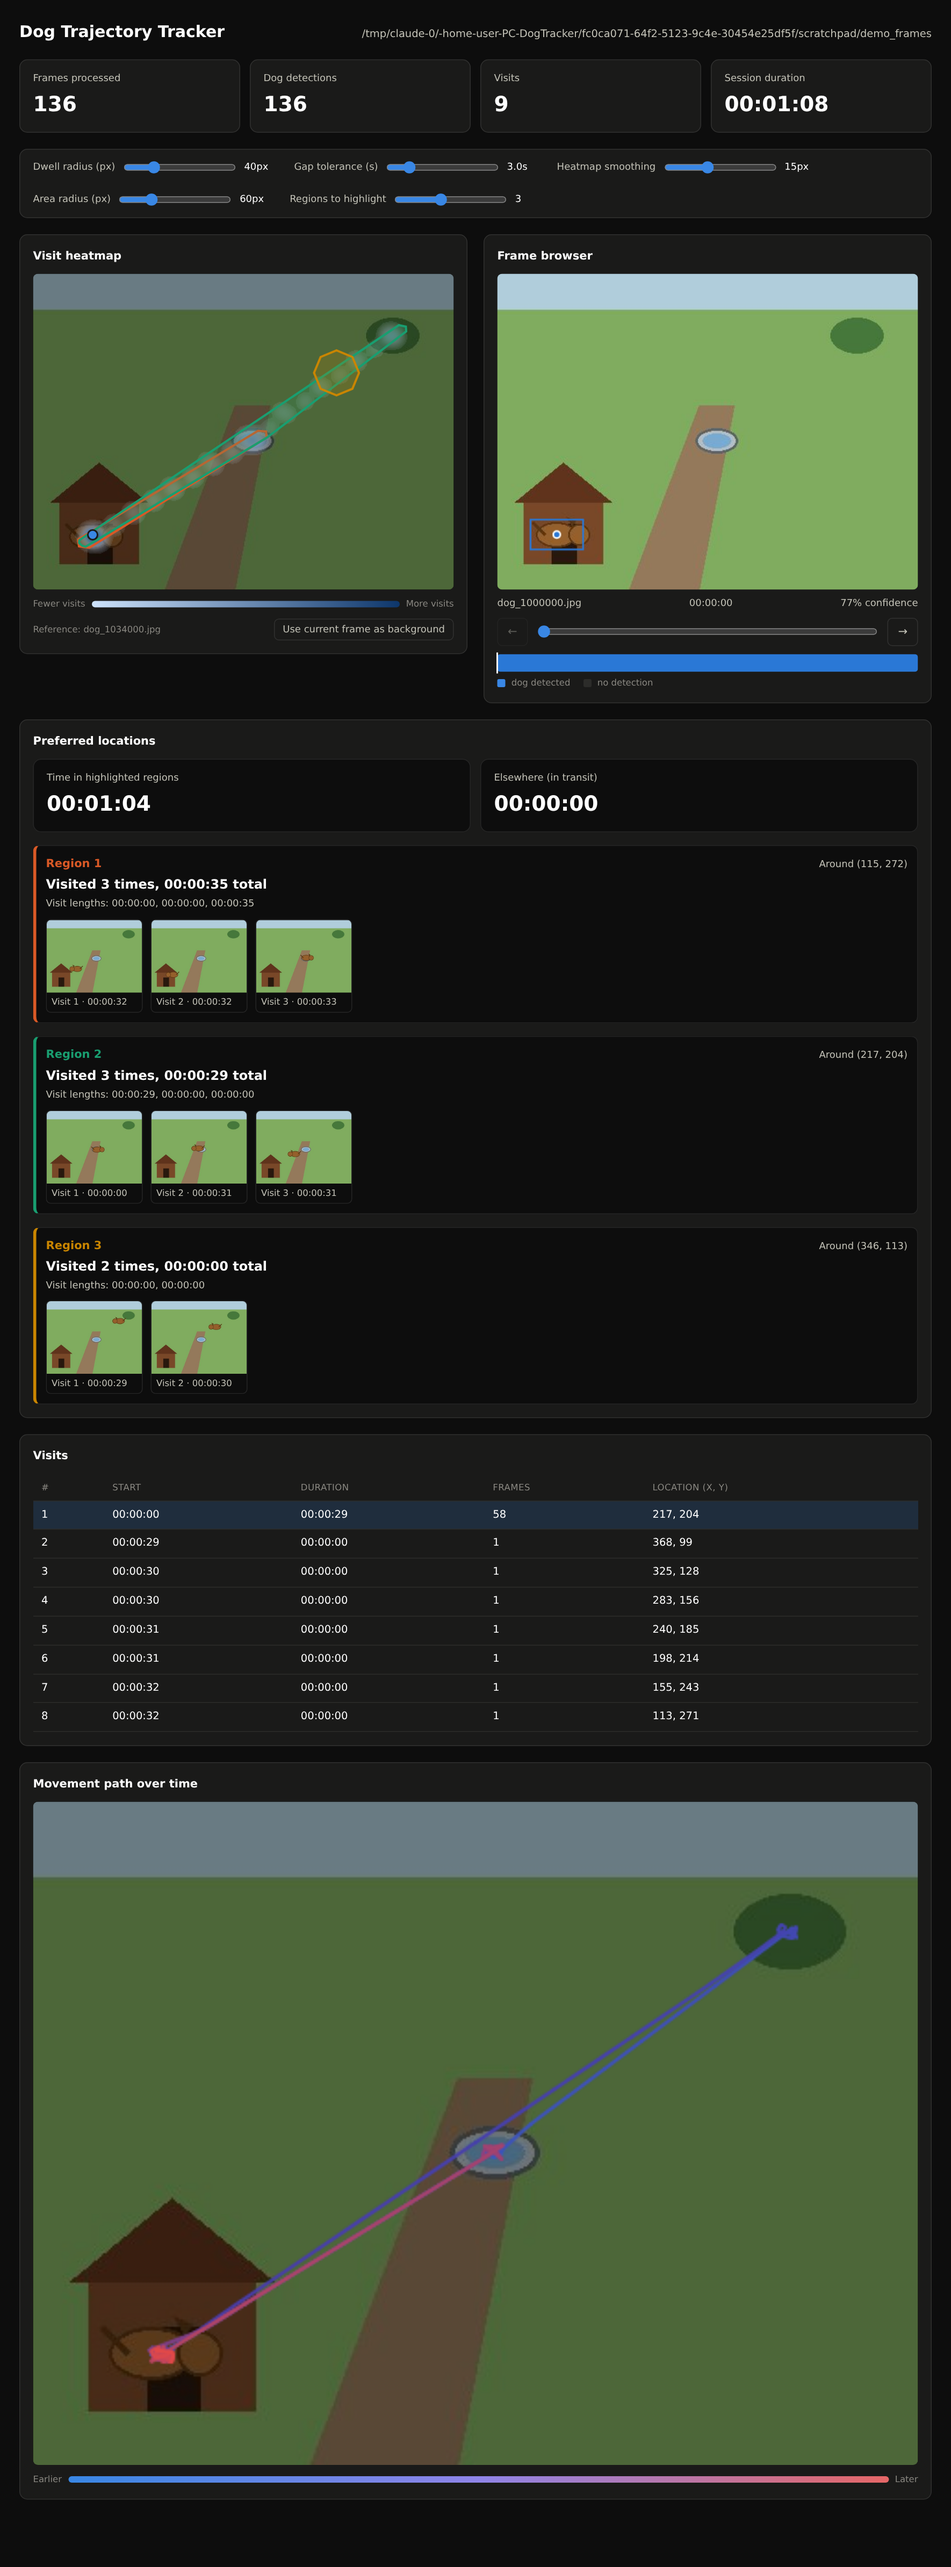
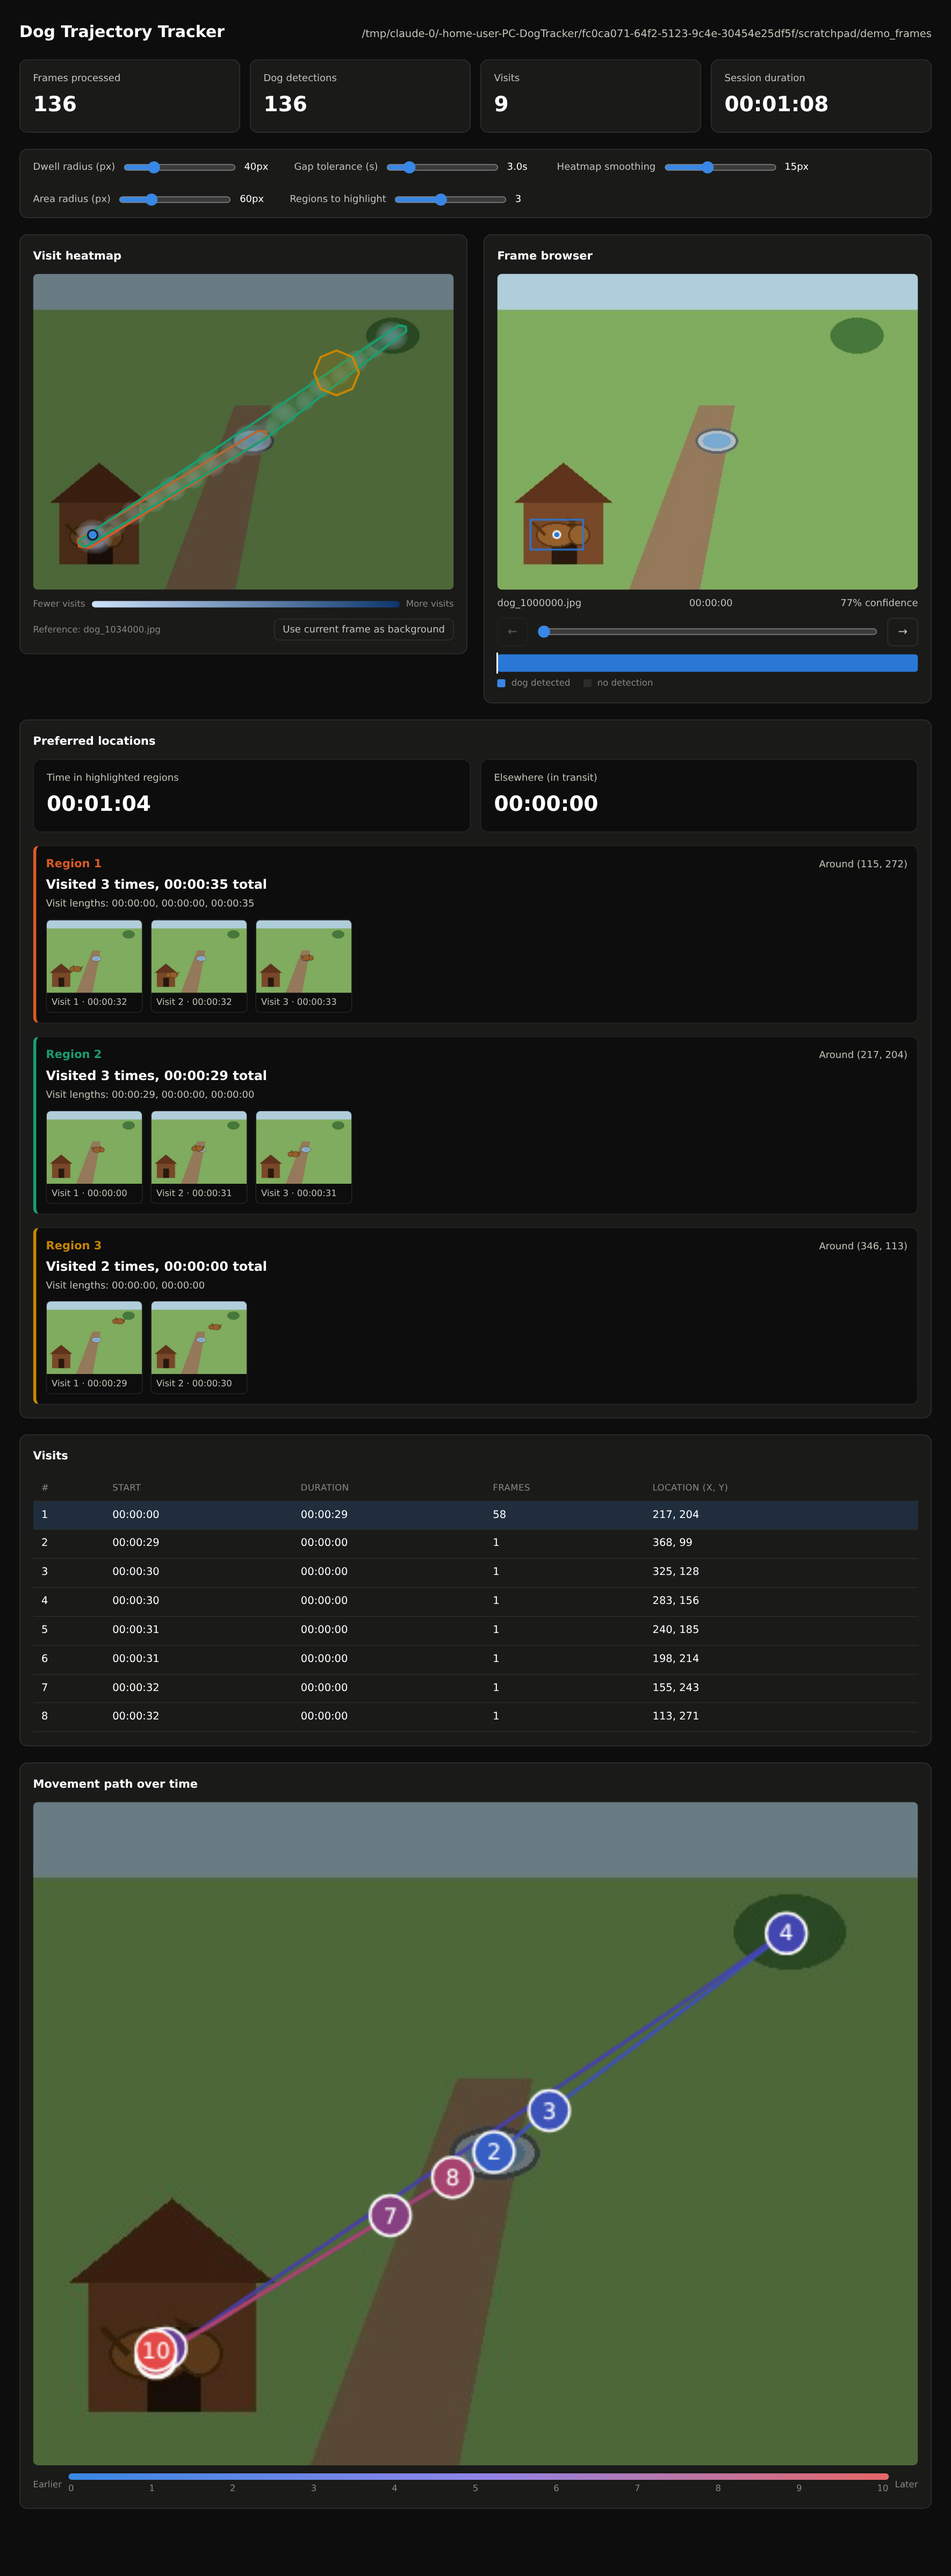
Make region hulls non-interactive; add 0-10 time ticks to trajectory path
Region hull polygons were capturing clicks (pointer-events + stopPropagation)
meant for the heatmap underneath, so a click anywhere inside a region's
outline could never reach the heatmap's own click-to-jump handler. Hulls are
now purely decorative (pointer-events: none).

The trajectory map's color gradient and click target were based on
detection sample index, not elapsed time; switched both to elapsed-time
fraction, and added numbered 0-10 badges along the path at every 10% of
session time (plus matching tick labels under the Earlier/Later legend) so
the path can be read as a timeline, not just a route.

diff --git a/dogtracker_pc/static/app.js b/dogtracker_pc/static/app.js
@@ -388,7 +388,9 @@
   // highlighted area, each in its own color -- an SVG (not absolutely
   // positioned divs) so the polygon points map directly onto frame pixel
   // coordinates via viewBox, matching how the frame's own aspect ratio
-  // scales on screen.
+  // scales on screen. Purely decorative (no pointer events): they sit on
+  // top of the heatmap, and capturing clicks there would shadow clicks on
+  // the heatmap's own points underneath.
   function renderAreaOverlays(areas) {
     const container = el("areaOverlays");
     const { frame_width, frame_height } = state.summary;
@@ -405,17 +407,6 @@
       polygon.setAttribute("class", "area-hull");
       polygon.style.stroke = color;
       polygon.style.fill = color;
-
-      const titleEl = document.createElementNS(SVG_NS, "title");
-      titleEl.textContent = `Region ${area.rank} · ${area.visit_count} visit${area.visit_count === 1 ? "" : "s"}, ${formatElapsed(area.total_duration_ms)} total`;
-      polygon.appendChild(titleEl);
-
-      const jumpToIndex = frameIndexForDetectionIndex(area.visits[0].representative_index);
-      polygon.addEventListener("click", (event) => {
-        event.stopPropagation();
-        setCurrentIndex(jumpToIndex);
-      });
-
       svg.appendChild(polygon);
     }
 
@@ -524,10 +515,40 @@
     return stops[stops.length - 1].rgb;
   }
 
+  // Fraction of the session elapsed at a given timestamp (0 at the first
+  // frame, 1 at the last) -- used for the trajectory's time gradient and its
+  // 0-10 tick marks, so both track wall-clock time rather than detection
+  // sample index (which would compress/stretch wherever detections happen
+  // to be denser or sparser).
+  function elapsedFractionOf(timestampMs) {
+    const duration = state.summary.duration_ms || 1;
+    return Math.min(1, Math.max(0, elapsedOf(timestampMs) / duration));
+  }
+
+  // Linearly interpolated (x, y) at a given elapsed-time fraction, between
+  // whichever two consecutive detections straddle that instant.
+  function positionAtElapsedFraction(dets, frac) {
+    const targetTs = state.summary.first_timestamp_ms + frac * (state.summary.duration_ms || 0);
+    if (targetTs <= dets[0].timestamp_ms) return [dets[0].x, dets[0].y];
+    for (let i = 0; i < dets.length - 1; i++) {
+      if (targetTs <= dets[i + 1].timestamp_ms) {
+        const span = dets[i + 1].timestamp_ms - dets[i].timestamp_ms;
+        const localT = span > 0 ? (targetTs - dets[i].timestamp_ms) / span : 0;
+        return [
+          dets[i].x + (dets[i + 1].x - dets[i].x) * localT,
+          dets[i].y + (dets[i + 1].y - dets[i].y) * localT,
+        ];
+      }
+    }
+    return [dets[dets.length - 1].x, dets[dets.length - 1].y];
+  }
+
   // The dog's full path, drawn as a Catmull-Rom spline through every
   // detection center in chronological order, colored along its length from
   // --traj-start (earliest) through --traj-mid to --traj-end (latest) so
-  // "when" is readable directly off the line, not just "where".
+  // "when" is readable directly off the line, not just "where". Numbered
+  // badges 0-10 mark every 10% of elapsed session time, matching the ticks
+  // under the legend below.
   function renderTrajectory() {
     const card = el("trajectoryCard");
     const dets = state.detections;
@@ -550,6 +571,7 @@
       { t: 0.5, rgb: hexToRgb(styles.getPropertyValue("--traj-mid") || "#4a3aa7") },
       { t: 1, rgb: hexToRgb(styles.getPropertyValue("--traj-end") || "#e34948") },
     ];
+    const surface = styles.getPropertyValue("--surface-1").trim() || "#fcfcfb";
 
     const n = dets.length;
     ctx.lineWidth = Math.max(2, Math.round(frame_width / 220));
@@ -562,31 +584,56 @@
       ctx.beginPath();
       ctx.arc(dets[0].x, dets[0].y, ctx.lineWidth, 0, Math.PI * 2);
       ctx.fill();
-      return;
+    } else {
+      const pointAt = (i) => {
+        const idx = Math.max(0, Math.min(n - 1, i));
+        return [dets[idx].x, dets[idx].y];
+      };
+
+      for (let i = 0; i < n - 1; i++) {
+        const [x0, y0] = pointAt(i - 1);
+        const [x1, y1] = pointAt(i);
+        const [x2, y2] = pointAt(i + 1);
+        const [x3, y3] = pointAt(i + 2);
+        // Catmull-Rom -> cubic Bezier control points for the segment [P1, P2].
+        const cp1x = x1 + (x2 - x0) / 6;
+        const cp1y = y1 + (y2 - y0) / 6;
+        const cp2x = x2 - (x3 - x1) / 6;
+        const cp2y = y2 - (y3 - y1) / 6;
+
+        const midT = (elapsedFractionOf(dets[i].timestamp_ms) + elapsedFractionOf(dets[i + 1].timestamp_ms)) / 2;
+        const [r, g, b] = trajectoryColorAt(midT, stops);
+        ctx.strokeStyle = `rgb(${r}, ${g}, ${b})`;
+        ctx.beginPath();
+        ctx.moveTo(x1, y1);
+        ctx.bezierCurveTo(cp1x, cp1y, cp2x, cp2y, x2, y2);
+        ctx.stroke();
+      }
     }
 
-    const pointAt = (i) => {
-      const idx = Math.max(0, Math.min(n - 1, i));
-      return [dets[idx].x, dets[idx].y];
-    };
-
-    for (let i = 0; i < n - 1; i++) {
-      const [x0, y0] = pointAt(i - 1);
-      const [x1, y1] = pointAt(i);
-      const [x2, y2] = pointAt(i + 1);
-      const [x3, y3] = pointAt(i + 2);
-      // Catmull-Rom -> cubic Bezier control points for the segment [P1, P2].
-      const cp1x = x1 + (x2 - x0) / 6;
-      const cp1y = y1 + (y2 - y0) / 6;
-      const cp2x = x2 - (x3 - x1) / 6;
-      const cp2y = y2 - (y3 - y1) / 6;
-
-      const [r, g, b] = trajectoryColorAt(i / (n - 2 || 1), stops);
-      ctx.strokeStyle = `rgb(${r}, ${g}, ${b})`;
+    // 0-10 badges at every 10% of elapsed time, drawn last so they sit on
+    // top of the path lines.
+    const badgeRadius = Math.max(8, Math.round(frame_width / 45));
+    ctx.font = `${Math.round(badgeRadius * 1.1)}px system-ui, sans-serif`;
+    ctx.textAlign = "center";
+    ctx.textBaseline = "middle";
+    for (let k = 0; k <= 10; k++) {
+      const frac = k / 10;
+      const [x, y] = positionAtElapsedFraction(dets, frac);
+      const [r, g, b] = trajectoryColorAt(frac, stops);
       ctx.beginPath();
-      ctx.moveTo(x1, y1);
-      ctx.bezierCurveTo(cp1x, cp1y, cp2x, cp2y, x2, y2);
+      ctx.arc(x, y, badgeRadius, 0, Math.PI * 2);
+      ctx.fillStyle = `rgb(${r}, ${g}, ${b})`;
+      ctx.fill();
+      ctx.lineWidth = Math.max(1.5, badgeRadius / 8);
+      ctx.strokeStyle = surface;
       ctx.stroke();
+
+      // Pick black or white text by background luminance so the number
+      // stays legible across the whole blue -> violet -> red gradient.
+      const luminance = 0.299 * r + 0.587 * g + 0.114 * b;
+      ctx.fillStyle = luminance > 140 ? "#0b0b0b" : "#ffffff";
+      ctx.fillText(String(k), x, y + 1);
     }
   }
 

diff --git a/dogtracker_pc/static/style.css b/dogtracker_pc/static/style.css
@@ -268,6 +268,24 @@ header.top .folder {
   background: linear-gradient(to right, var(--traj-start), var(--traj-mid), var(--traj-end));
 }
 
+.ramp-col {
+  flex: 1;
+  display: flex;
+  flex-direction: column;
+  gap: 3px;
+}
+
+.ramp-col .ramp {
+  flex: none;
+  width: 100%;
+}
+
+.ramp-ticks {
+  display: flex;
+  justify-content: space-between;
+  font-variant-numeric: tabular-nums;
+}
+
 .ref-frame-row {
   display: flex;
   align-items: center;
@@ -301,12 +319,7 @@ header.top .folder {
 .area-hull {
   fill-opacity: 0.18;
   stroke-width: 2.5;
-  cursor: pointer;
-  pointer-events: auto;
-}
-
-.area-hull:hover {
-  fill-opacity: 0.3;
+  pointer-events: none;
 }
 
 .areas-overview {

diff --git a/dogtracker_pc/static/index.html b/dogtracker_pc/static/index.html
@@ -129,7 +129,12 @@
       </div>
       <div class="legend">
         <span>Earlier</span>
-        <span class="ramp ramp-trajectory"></span>
+        <div class="ramp-col">
+          <span class="ramp ramp-trajectory"></span>
+          <div class="ramp-ticks">
+            <span>0</span><span>1</span><span>2</span><span>3</span><span>4</span><span>5</span><span>6</span><span>7</span><span>8</span><span>9</span><span>10</span>
+          </div>
+        </div>
         <span>Later</span>
       </div>
     </div>
